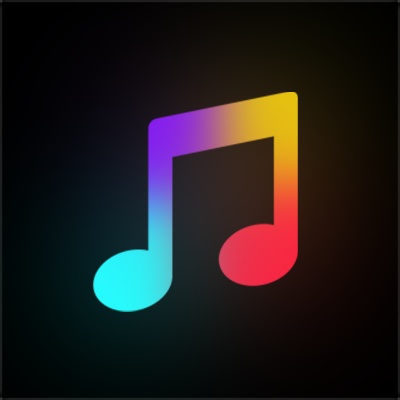
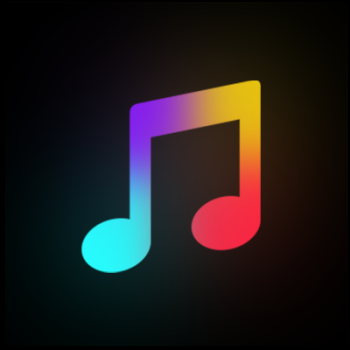
Ovl: Reduce memory usage when creating image

diff --git a/Overlay/source/Utils.cpp b/Overlay/source/Utils.cpp
@@ -27,7 +27,7 @@ namespace Utils {
         data->pos += amount;
     }
 
-    Bitmap convertPNGToBitmap(const std::vector<uint8_t> & buffer) {
+    Bitmap convertPNGToBitmap(const std::vector<uint8_t> & buffer, const size_t scaleWidth, const size_t scaleHeight) {
         Bitmap bitmap;
         bitmap.channels = 0;
         bitmap.width = 0;
@@ -63,6 +63,7 @@ namespace Utils {
             return bitmap;
         }
         switch (colourType) {
+            // Append alpha channel if the image doesn't have one
             case PNG_COLOR_TYPE_RGB:
                 png_set_filler(png, 0xFF, PNG_FILLER_AFTER);
                 png_read_update_info(png, info);
@@ -75,75 +76,77 @@ namespace Utils {
                 return bitmap;
         }
 
-        // Now actually extract the pixels
+        // Now actually extract the pixels (+ scale)
         png_uint_32 bytesPerRow = png_get_rowbytes(png, info);
         uint8_t * rowData = new uint8_t[bytesPerRow];
 
-        // Iterate over each row of pixels
-        for (png_uint_32 row = 0; row < bitmap.height; row++) {
-            // Read the pixels
-            png_read_row(png, (png_bytep)rowData, nullptr);
+        // Simply copy if not scaling
+        if (scaleWidth == 0 || scaleHeight == 0) {
+            for (size_t row = 0; row < bitmap.height; row++) {
+                png_read_row(png, (png_bytep)rowData, nullptr);
+                bitmap.pixels.resize(bitmap.pixels.size() + bytesPerRow);
+                std::memcpy(&bitmap.pixels[row * bytesPerRow], rowData, bytesPerRow);
+            }
 
-            // Append row to end of buffer
-            bitmap.pixels.resize(bitmap.pixels.size() + bytesPerRow, 0);
-            std::memcpy(&bitmap.pixels[row * bytesPerRow], rowData, bytesPerRow);
-        }
+        // Otherwise scale while we extract!
+        } else {
+            // Calculate ratios
+            double xRatio = static_cast<double>(bitmap.width-1)/scaleWidth;
+            double yRatio = static_cast<double>(bitmap.height-1)/scaleHeight;
 
-        // Tidy up and return
-        delete[] rowData;
-        bitmap.pixels.shrink_to_fit();
-        png_destroy_read_struct(&png, &info, nullptr);
-        return bitmap;
-    }
-
-    bool resizeBitmap(Bitmap & bitmap, const size_t newWidth, const size_t newHeight) {
-        // Sanity check
-        if (bitmap.pixels.empty()) {
-            return false;
-        }
-
-        // Do nothing if same size
-        if (bitmap.width == newWidth && bitmap.height == newHeight) {
-            return true;
-        }
-
-        // Create the vector of resized pixels
-        std::vector<uint8_t> resized;
-
-        // Calculate ratios
-        double xRatio = static_cast<double>(bitmap.width-1)/newWidth;
-        double yRatio = static_cast<double>(bitmap.height-1)/newHeight;
-
-        // Iterate over the original image for each pixel in the resized image
-        for (size_t h = 0; h < newHeight; h++) {
-            for (size_t w = 0; w < newWidth; w++) {
-                // Find pixel(s) to examine
-                int x = xRatio * w;
-                int y = yRatio * h;
-                double xDiff = (xRatio * w) - x;
+            // Iterate over each required row in the scaled image
+            // If we need data from a row that hasn't been read in yet, read it in
+            // Once we are past rows that we don't need anymore, delete them from memory
+            std::vector< std::vector<uint8_t> > rows;
+            for (size_t h = 0; h < scaleHeight; h++) {
+                size_t y = yRatio * h;
                 double yDiff = (yRatio * h) - y;
-                size_t index = (y*bitmap.width + x)*bitmap.channels;
 
-                // Iterate for each channel that forms a pixel
-                for (size_t p = 0; p < bitmap.channels; p++) {
-                    // Get pixels
-                    uint8_t a = bitmap.pixels[index + p];
-                    uint8_t b = bitmap.pixels[index + p + bitmap.channels];
-                    uint8_t c = bitmap.pixels[index + p + bitmap.width * bitmap.channels];
-                    uint8_t d = bitmap.pixels[index + p + (bitmap.width + 1) * bitmap.channels];
+                // Read in any rows we need to read from
+                while (rows.size() <= y+1) {
+                    std::vector<uint8_t> row;
+                    row.resize(bytesPerRow);
+                    png_read_row(png, (png_bytep)rowData, nullptr);
+                    std::memcpy(&row[0], rowData, bytesPerRow);
+                    rows.push_back(row);
+                }
 
-                    // Interpolate
-                    uint8_t interpolated = a*(1-xDiff)*(1-yDiff) + b*(xDiff)*(1-yDiff) + c*(yDiff)*(1-xDiff) + d*(xDiff)*(yDiff);
-                    resized.push_back(interpolated);
+                // Interpolate the current row's pixels
+                for (size_t w = 0; w < scaleWidth; w++) {
+                    size_t x = xRatio * w;
+                    double xDiff = (xRatio * w) - x;
+                    size_t index = x*bitmap.channels;
+
+                    // Iterate for each channel that forms a pixel
+                    for (size_t p = 0; p < bitmap.channels; p++) {
+                        // Get pixels
+                        uint8_t a = rows[y][index + p];
+                        uint8_t b = rows[y][index + p + bitmap.channels];
+                        uint8_t c = rows[y+1][index + p];
+                        uint8_t d = rows[y+1][index + p + bitmap.channels];
+
+                        // Interpolate
+                        uint8_t interpolated = a*(1-xDiff)*(1-yDiff) + b*(xDiff)*(1-yDiff) + c*(yDiff)*(1-xDiff) + d*(xDiff)*(yDiff);
+                        bitmap.pixels.push_back(interpolated);
+                    }
+                }
+
+                // Discard any rows that are no longer needed
+                for (size_t r = 0; r < y; r++) {
+                    if (!rows[r].empty()) {
+                        rows[r].clear();
+                    }
                 }
             }
         }
 
-        // Replace vector and return
-        bitmap.pixels = resized;
-        bitmap.width = newWidth;
-        bitmap.height = newHeight;
-        return true;
+        // Tidy up and return final object
+        delete[] rowData;
+        png_destroy_read_struct(&png, &info, nullptr);
+        bitmap.pixels.shrink_to_fit();
+        bitmap.width = (scaleWidth > 0 ? scaleWidth : bitmap.width);
+        bitmap.height = (scaleHeight > 0 ? scaleHeight : bitmap.height);
+        return bitmap;
     }
 
     std::string secondsToHMS(unsigned int sec) {

diff --git a/Overlay/source/element/Player.cpp b/Overlay/source/element/Player.cpp
@@ -34,7 +34,7 @@ namespace Element {
 
         // Default album art
         buffer.clear();
-        this->setAlbumArt(buffer);
+        this->defaultArt = false;
 
         // Shuffle icon
         buffer.resize(shuffle_png_size);
@@ -166,7 +166,7 @@ namespace Element {
         }
 
         // Otherwise extract as usual
-        this->albumArt = Utils::convertPNGToBitmap(buf);
+        this->albumArt = Utils::convertPNGToBitmap(buf, this->getWidth() * 0.75, this->getWidth() * 0.75);
     }
 
     tsl::elm::Element * Player::requestFocus(tsl::elm::Element * old, tsl::FocusDirection dir) {
@@ -229,11 +229,6 @@ namespace Element {
     void Player::draw(tsl::gfx::Renderer * renderer) {
         std::pair<u32, u32> dimensions;
         u16 nextY = this->getY();
-
-        // Resize the album art if required (does nothing if already the same size)
-        if (!Utils::resizeBitmap(this->albumArt, this->getWidth() * 0.75, this->getWidth() * 0.75)) {
-            this->albumArt.pixels.clear();
-        }
 
         // Now render album art
         if (!this->albumArt.pixels.empty()) {

diff --git a/Overlay/include/Utils.hpp b/Overlay/include/Utils.hpp
@@ -15,12 +15,9 @@ struct Bitmap {
 
 namespace Utils {
     // Read a PNG from the specified buffer and convert to bitmap
+    // Passed required size and performs scaling as it's extracted
     // Returns a Bitmap with no pixels on an error
-    Bitmap convertPNGToBitmap(const std::vector<uint8_t> &);
-
-    // Resizes a bitmap in place using bilinear interpolation
-    // Returns whether successful or not
-    bool resizeBitmap(Bitmap &, const size_t, const size_t);
+    Bitmap convertPNGToBitmap(const std::vector<uint8_t> &, const size_t, const size_t);
 
     // Format seconds in HH:MM:SS
     std::string secondsToHMS(unsigned int);

diff --git a/Overlay/source/element/Button.cpp b/Overlay/source/element/Button.cpp
@@ -6,7 +6,7 @@ namespace Element {
         this->callback = nullptr;
 
         // Render image from buffer
-        this->image = Utils::convertPNGToBitmap(buf);
+        this->image = Utils::convertPNGToBitmap(buf, 0, 0);
         this->showAlt = false;
 
         // Set boundaries
@@ -14,7 +14,7 @@ namespace Element {
     }
 
     void Button::addAltImage(const std::vector<uint8_t> & buf) {
-        this->altImage = Utils::convertPNGToBitmap(buf);
+        this->altImage = Utils::convertPNGToBitmap(buf, 0, 0);
     }
 
     void Button::showAltImage(const bool b) {

diff --git a/Common/source/SQLite.cpp b/Common/source/SQLite.cpp
@@ -3,6 +3,11 @@
 #include "utils/FS.hpp"
 
 SQLite::SQLite(const std::string & pth) {
+    // Limit overlay and sysmodule memory usage (200KB)
+    #if defined(_SYSMODULE_) || defined(_OVERLAY_)
+        sqlite3_soft_heap_limit64(204800);
+    #endif
+
     this->path = pth;
     this->path.shrink_to_fit();
 
